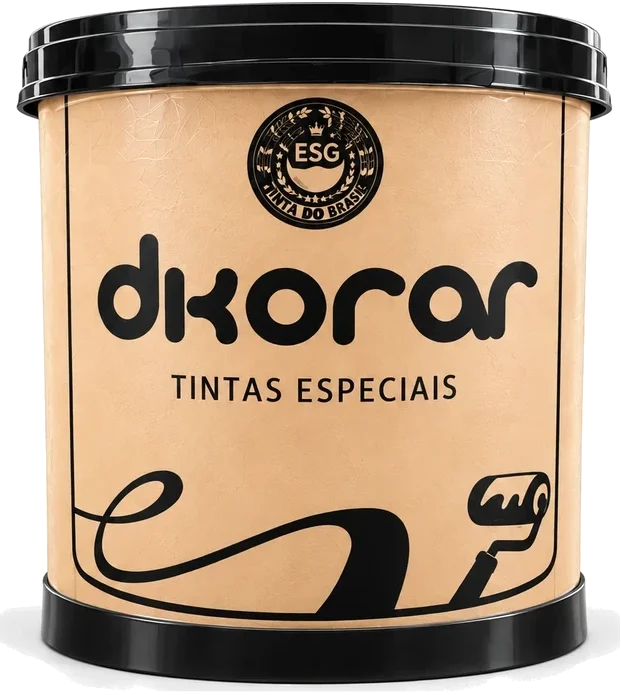
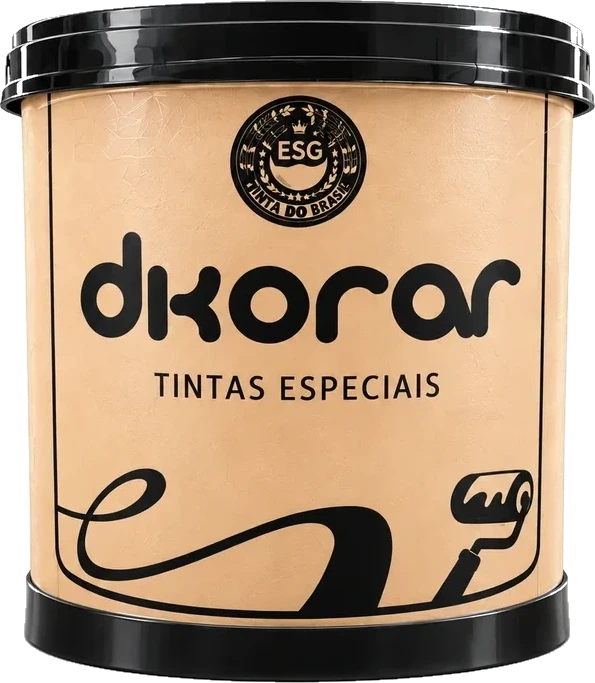
Ajustes: selo Inmetro no círculo, recorte da lata bege, latas inteiras, WEG em azul claro, mapa só com nomes do Google, navbar sem Entregas/Lojas

Changed region(s): [[0.0, 0.0, 1.0, 1.0], [0.363, 0.123, 0.6353, 0.3382], [0.5748, 0.369, 0.7563, 0.4305]]

diff --git a/index.html b/index.html
@@ -18,7 +18,7 @@
   <link rel="preload" href="assets/fonts/archivo-latin-wdth-normal.woff2" as="font" type="font/woff2" crossorigin>
   <link rel="preload" as="image" type="image/webp" href="assets/img/fachada-lavras-premium.webp" fetchpriority="high">
   <link rel="stylesheet" href="assets/home.css?v=17">
-  <link rel="stylesheet" href="assets/referencia-2026.css?v=13">
+  <link rel="stylesheet" href="assets/referencia-2026.css?v=14">
   <script>(function(d){d.classList.replace("no-js","js");if(!matchMedia("(prefers-reduced-motion: reduce)").matches)d.classList.add("motion");setTimeout(function(){if(!window.Motion)d.classList.remove("motion")},3000)})(document.documentElement)</script>
   <script type="application/ld+json">
   {"@context":"https://schema.org","@type":"Organization","name":"Dekorar Tintas e Acabamentos","url":"https://duduwwl.github.io/dekorar-tintas-acabamentos/","logo":"https://duduwwl.github.io/dekorar-tintas-acabamentos/assets/img/icon-512.png","sameAs":["https://www.instagram.com/dekorar.acabamentos/","https://www.instagram.com/dkorartintas/"],"telephone":"+55 35 98433-6650",
@@ -66,8 +66,6 @@
           <li><a href="leque-de-cores.html">Leque de cores</a></li>
           <li><a href="leitor-de-cor.html">Leitor de cor</a></li>
           <li><a href="orcamento.html">Orçamento</a></li>
-          <li><a href="#entrega" data-nav>Entregas</a></li>
-          <li><a href="#lojas" data-nav>Lojas</a></li>
         </ul>
         <div class="nav-extra">
           <a class="btn btn-orange" href="produtos.html">Comprar online</a>
@@ -86,7 +84,6 @@
     <section class="cover" id="inicio" aria-labelledby="cover-title">
       <div class="cover-page">
         <div class="cover-copy">
-          <p class="tag-pill" data-fade>Dkorar Tintas Especiais</p>
           <h1 id="cover-title" class="display" data-text-effect>Dê mais cores aos seus projetos</h1>
           <p class="lead" data-fade>Tintas Coral, Suvinil, WEG e a nossa linha própria Dkorar, com leitor de cor e entrega com caminhonete própria em Lavras, Três Corações e região.</p>
           <div class="actions" data-fade>
@@ -236,7 +233,7 @@
             <p class="stage-stat"><strong>+10</strong><span>prédios atendidos na região</span></p>
             <span class="inmetro-seal stage-seal"><span class="seal-top">Laudo do</span><span class="seal-mark">I</span><strong>INMETRO</strong><span class="seal-bot">Qualidade<br>comprovada</span></span>
             <div class="stage-cans">
-              <img class="stage-can" src="assets/img/promo-dkorar-bege.webp" width="621" height="695" alt="" loading="lazy" decoding="async">
+              <img class="stage-can" src="assets/img/promo-dkorar-bege.webp" width="595" height="683" alt="" loading="lazy" decoding="async">
               <img class="stage-can stage-can-hero" src="assets/img/promo-dkorar-lata.webp" width="570" height="720" alt="" loading="lazy" decoding="async">
             </div>
           </div>
@@ -271,7 +268,7 @@
             <div class="stage-cans">
               <img class="stage-can" src="assets/img/promo-suvinil.webp" width="623" height="689" alt="" loading="lazy" decoding="async">
               <img class="stage-can stage-can-hero" src="assets/img/promo-coral.webp" width="509" height="690" alt="" loading="lazy" decoding="async">
-              <img class="stage-can" src="assets/img/promo-dkorar-bege.webp" width="621" height="695" alt="" loading="lazy" decoding="async">
+              <img class="stage-can" src="assets/img/promo-dkorar-bege.webp" width="595" height="683" alt="" loading="lazy" decoding="async">
             </div>
           </div>
         </article>
@@ -321,7 +318,7 @@
             <p class="promo-sub">Leitor de cor na parede e sistema tintométrico: a Dekorar prepara o tom exato na hora.</p>
             <a class="btn btn-orange" href="leitor-de-cor.html">Testar o leitor de cor</a>
           </div>
-          <img class="promo-can" src="assets/img/promo-dkorar-bege.webp" width="621" height="695" alt="Balde bege da linha Dkorar Tintas Especiais" loading="lazy" decoding="async">
+          <img class="promo-can" src="assets/img/promo-dkorar-bege.webp" width="595" height="683" alt="Balde bege da linha Dkorar Tintas Especiais" loading="lazy" decoding="async">
         </article>
         <article class="promo">
           <div class="promo-txt">
@@ -387,12 +384,11 @@
         <ul class="tone-grid tone-grid-banner" data-tone-links></ul>
       </div>
     </section>
-    <!-- Empresas que confiam na Dkorar -->
+    <!-- Empresas e lojas que confiam na Dekorar -->
     <section class="empresas" id="empresas" aria-labelledby="empresas-title">
       <div class="empresas-inner">
         <div class="sec-head" data-reveal>
-          <p class="tag-pill">Marca própria Dkorar</p>
-          <h2 id="empresas-title">Empresas/lojas que<br>confiam na <em>Dkorar</em></h2>
+          <h2 id="empresas-title">Empresas e lojas que<br>confiam na <em>Dekorar</em></h2>
           <p>Construtoras, indústrias, comércios e instituições de Lavras, Três Corações e região que aplicaram a nossa tinta, massa e textura.</p>
         </div>
         <ul class="logo-grid" data-stagger>
@@ -443,7 +439,7 @@
           </li>
         </ul>
 
-        <p class="logo-note" data-reveal>Empresas e lojas de Lavras, Três Corações e região que confiam na marca própria Dkorar.</p>
+        <p class="logo-note" data-reveal>Empresas e lojas de Lavras, Três Corações e região que confiam na Dekorar.</p>
       </div>
     </section>
 
@@ -462,18 +458,9 @@
             <desc id="route-desc">A caminhonete sai de Lavras, passa por Carmo da Cachoeira e Três Corações e chega a Varginha. Cidades atendidas na região: Ijaci, Itumirim, Nazareno, Perdões, Nepomuceno, Três Pontas, Elói Mendes e Campanha.</desc>
             <path class="route-line" d="M 352.9 176.1 C 330 205, 290 232, 272.4 261.3 C 258 288, 254 325, 259.8 350.9 C 264 372, 222 356, 196.1 295.7" data-route-path />
             <path class="route-line-done" d="M 352.9 176.1 C 330 205, 290 232, 272.4 261.3 C 258 288, 254 325, 259.8 350.9 C 264 372, 222 356, 196.1 295.7" data-route-done />
-            <g class="city city-mini" data-city="Nazareno" transform="translate(494.3 164.9)"><circle r="4" /><text x="0" y="18" text-anchor="middle">Nazareno</text></g>
-            <g class="city city-mini" data-city="Ijaci" transform="translate(380.3 147.3)"><circle r="4" /><text x="10" y="4">Ijaci</text></g>
-            <g class="city city-mini" data-city="Itumirim" transform="translate(399.5 204.2)"><circle r="4" /><text x="10" y="4">Itumirim</text></g>
-            <g class="city city-mini" data-city="Perdões" transform="translate(320.1 115.6)"><circle r="4" /><text x="10" y="4">Perdões</text></g>
-            <g class="city city-mini" data-city="Nepomuceno" transform="translate(267.1 172.3)"><circle r="4" /><text x="-10" y="4" text-anchor="end">Nepomuceno</text></g>
-            <g class="city city-mini" data-city="Carmo da Cachoeira" transform="translate(272.4 261.3)"><circle r="4" /><text x="10" y="4">Carmo da Cachoeira</text></g>
-            <g class="city city-mini" data-city="Três Pontas" transform="translate(166.3 223.4)"><circle r="4" /><text x="-10" y="4" text-anchor="end">Três Pontas</text></g>
-            <g class="city city-mini" data-city="Elói Mendes" transform="translate(146.9 318.6)"><circle r="4" /><text x="-10" y="4" text-anchor="end">Elói Mendes</text></g>
-            <g class="city city-mini" data-city="Campanha" transform="translate(207 407.3)"><circle r="4" /><text x="10" y="4">Campanha</text></g>
-            <g class="city" data-city="Lavras" transform="translate(352.9 176.1)"><circle r="8" /><text x="14" y="5">Lavras</text></g>
-            <g class="city" data-city="Três Corações" transform="translate(259.8 350.9)"><circle r="8" /><text x="14" y="5">Três Corações</text></g>
-            <g class="city city-far" data-city="Varginha" transform="translate(196.1 295.7)"><circle r="6" /><text x="-12" y="-10" text-anchor="end">Varginha</text></g>
+            <g class="city" data-city="Lavras" transform="translate(352.9 176.1)"><circle r="8" /></g>
+            <g class="city" data-city="Três Corações" transform="translate(259.8 350.9)"><circle r="8" /></g>
+            <g class="city city-far" data-city="Varginha" transform="translate(196.1 295.7)"><circle r="6" /></g>
             <g class="truck" data-truck aria-hidden="true">
               <rect x="-17" y="-10" width="22" height="16" rx="2" />
               <path d="M5 -6 h8 l6 6 v6 h-14 z" />

diff --git a/leitor-de-cor.html b/leitor-de-cor.html
@@ -11,7 +11,7 @@
   <link rel="apple-touch-icon" href="assets/img/apple-touch-icon.png">
   <link rel="preload" href="assets/fonts/archivo-latin-wdth-normal.woff2" as="font" type="font/woff2" crossorigin>
   <link rel="stylesheet" href="assets/home.css?v=18">
-  <link rel="stylesheet" href="assets/referencia-2026.css?v=13">
+  <link rel="stylesheet" href="assets/referencia-2026.css?v=14">
   <link rel="stylesheet" href="assets/paginas.css?v=3">
   <script>(function(d){d.classList.replace("no-js","js");if(!matchMedia("(prefers-reduced-motion: reduce)").matches)d.classList.add("motion");setTimeout(function(){if(!window.Motion)d.classList.remove("motion")},3000)})(document.documentElement)</script>
 </head>
@@ -31,8 +31,6 @@
           <li><a href="leque-de-cores.html">Leque de cores</a></li>
           <li><a href="leitor-de-cor.html" aria-current="page">Leitor de cor</a></li>
           <li><a href="orcamento.html">Orçamento</a></li>
-          <li><a href="index.html#entrega">Entregas</a></li>
-          <li><a href="index.html#lojas">Lojas</a></li>
         </ul>
         <div class="nav-extra">
           <a class="btn btn-orange" href="produtos.html">Comprar online</a>

diff --git a/leque-de-cores.html b/leque-de-cores.html
@@ -11,7 +11,7 @@
   <link rel="apple-touch-icon" href="assets/img/apple-touch-icon.png">
   <link rel="preload" href="assets/fonts/archivo-latin-wdth-normal.woff2" as="font" type="font/woff2" crossorigin>
   <link rel="stylesheet" href="assets/home.css?v=18">
-  <link rel="stylesheet" href="assets/referencia-2026.css?v=13">
+  <link rel="stylesheet" href="assets/referencia-2026.css?v=14">
   <link rel="stylesheet" href="assets/paginas.css?v=3">
   <script>(function(d){d.classList.replace("no-js","js");if(!matchMedia("(prefers-reduced-motion: reduce)").matches)d.classList.add("motion");setTimeout(function(){if(!window.Motion)d.classList.remove("motion")},3000)})(document.documentElement)</script>
 </head>
@@ -31,8 +31,6 @@
           <li><a href="leque-de-cores.html" aria-current="page">Leque de cores</a></li>
           <li><a href="leitor-de-cor.html">Leitor de cor</a></li>
           <li><a href="orcamento.html">Orçamento</a></li>
-          <li><a href="index.html#entrega">Entregas</a></li>
-          <li><a href="index.html#lojas">Lojas</a></li>
         </ul>
         <div class="nav-extra">
           <a class="btn btn-orange" href="produtos.html">Comprar online</a>

diff --git a/orcamento.html b/orcamento.html
@@ -11,7 +11,7 @@
   <link rel="apple-touch-icon" href="assets/img/apple-touch-icon.png">
   <link rel="preload" href="assets/fonts/archivo-latin-wdth-normal.woff2" as="font" type="font/woff2" crossorigin>
   <link rel="stylesheet" href="assets/home.css?v=18">
-  <link rel="stylesheet" href="assets/referencia-2026.css?v=13">
+  <link rel="stylesheet" href="assets/referencia-2026.css?v=14">
   <link rel="stylesheet" href="assets/paginas.css?v=3">
   <script>(function(d){d.classList.replace("no-js","js");if(!matchMedia("(prefers-reduced-motion: reduce)").matches)d.classList.add("motion");setTimeout(function(){if(!window.Motion)d.classList.remove("motion")},3000)})(document.documentElement)</script>
 </head>
@@ -31,8 +31,6 @@
           <li><a href="leque-de-cores.html">Leque de cores</a></li>
           <li><a href="leitor-de-cor.html">Leitor de cor</a></li>
           <li><a href="orcamento.html" aria-current="page">Orçamento</a></li>
-          <li><a href="index.html#entrega">Entregas</a></li>
-          <li><a href="index.html#lojas">Lojas</a></li>
         </ul>
         <div class="nav-extra">
           <a class="btn btn-orange" href="produtos.html">Comprar online</a>

diff --git a/assets/referencia-2026.css b/assets/referencia-2026.css
@@ -624,3 +624,18 @@
 @media (prefers-reduced-motion: reduce) { .promo-can { transition: none; } }
 .promo .btn { white-space: nowrap; }
 .promo-sub { max-width: 30ch; }
+
+/* Ajustes nov/2026 (3): selo dentro do círculo, cartão WEG azul claro, três latas inteiras */
+.inmetro-seal { padding: 0 10px; overflow: hidden; }
+.inmetro-seal strong { font-size: 1.12rem; font-stretch: 100%; letter-spacing: 0; }
+.dk-inmetro .inmetro-seal strong, .stage-seal strong { font-size: .96rem; }
+.dk-inmetro .inmetro-seal .seal-bot, .stage-seal .seal-bot { font-size: .5rem; }
+.stage-weg { background: #dcebf8; box-shadow: 0 24px 50px rgba(11, 37, 69, .28); }
+.stage-weg p { color: #0b2545; font-weight: 560; }
+.servico-res .stage-cans { gap: 2%; padding-inline: 5%; }
+.servico-res .stage-can { height: auto; max-height: 76%; max-width: 29%; margin: 0; }
+.servico-res .stage-can-hero { max-height: 96%; max-width: 34%; }
+@media (max-width: 620px) {
+  .stage-seal strong { font-size: .8rem; }
+  .stage-seal .seal-top, .stage-seal .seal-bot { font-size: .44rem; }
+}

diff --git a/produtos.html b/produtos.html
@@ -30,8 +30,6 @@
           <li><a href="leque-de-cores.html">Leque de cores</a></li>
           <li><a href="leitor-de-cor.html">Leitor de cor</a></li>
           <li><a href="orcamento.html">Orçamento</a></li>
-          <li><a href="index.html#entrega">Entregas</a></li>
-          <li><a href="index.html#lojas">Lojas</a></li>
         </ul>
         <div class="nav-extra">
           <a href="https://wa.me/5535984336650" target="_blank" rel="noopener">WhatsApp (35) 98433-6650</a>

diff --git a/tintometrico.html b/tintometrico.html
@@ -30,8 +30,6 @@
           <li><a href="leque-de-cores.html">Leque de cores</a></li>
           <li><a href="leitor-de-cor.html">Leitor de cor</a></li>
           <li><a href="orcamento.html">Orçamento</a></li>
-          <li><a href="index.html#entrega">Entregas</a></li>
-          <li><a href="index.html#lojas">Lojas</a></li>
         </ul>
         <div class="nav-extra">
           <a href="https://wa.me/5535984336650" target="_blank" rel="noopener">WhatsApp (35) 98433-6650</a>
